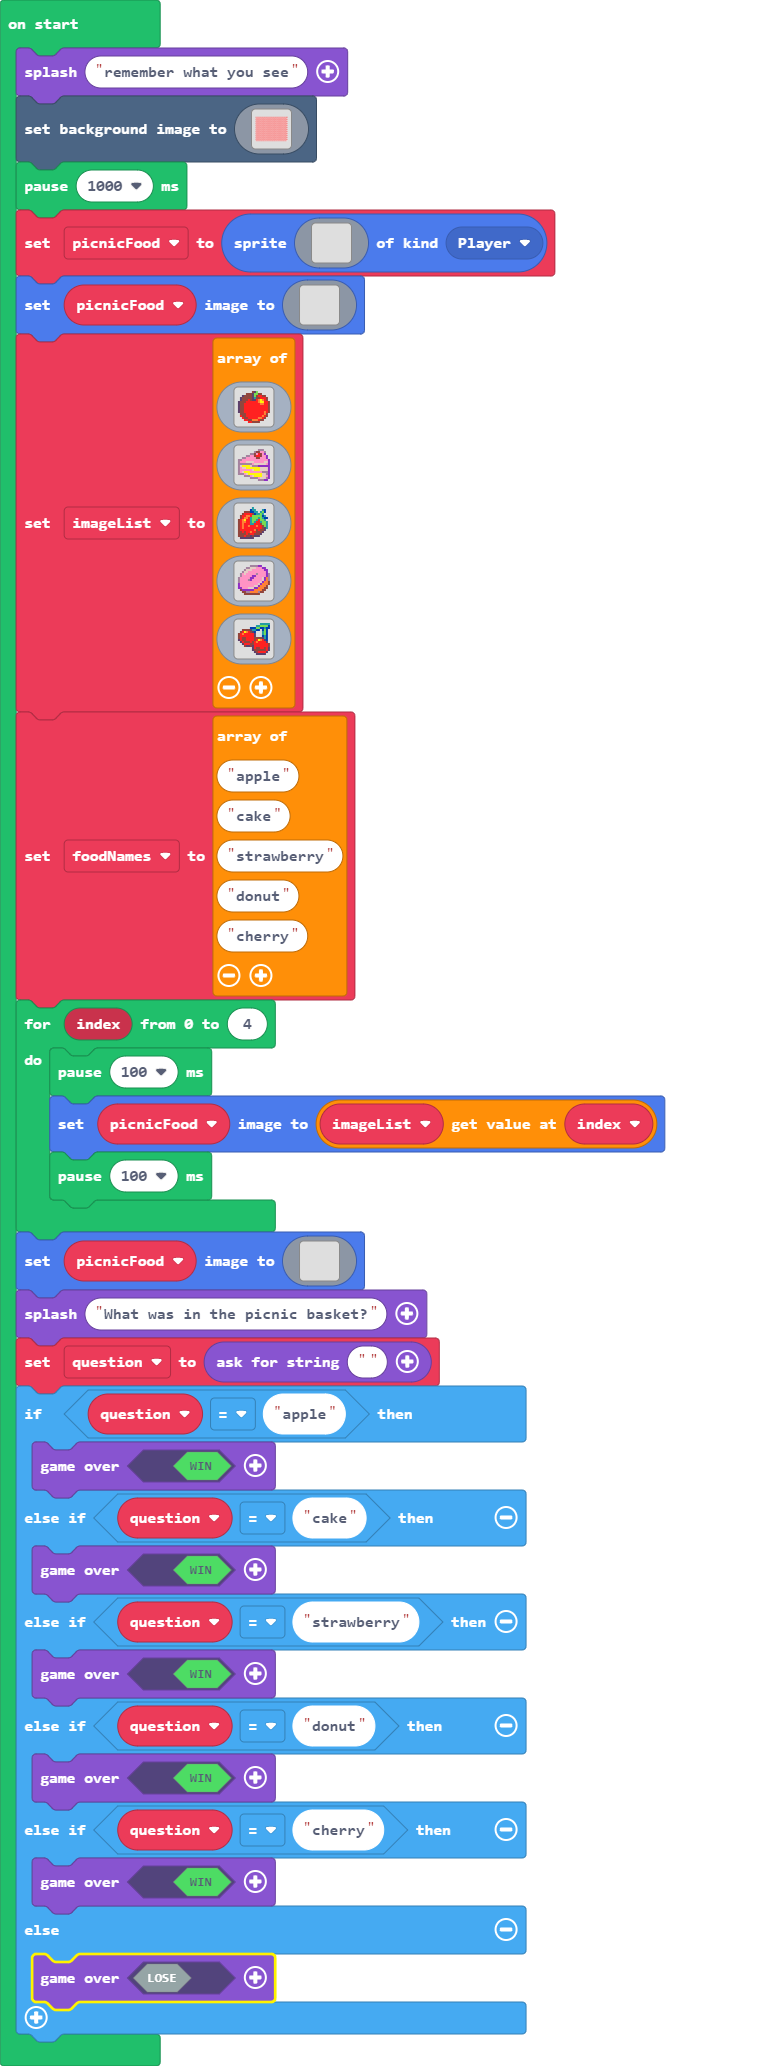
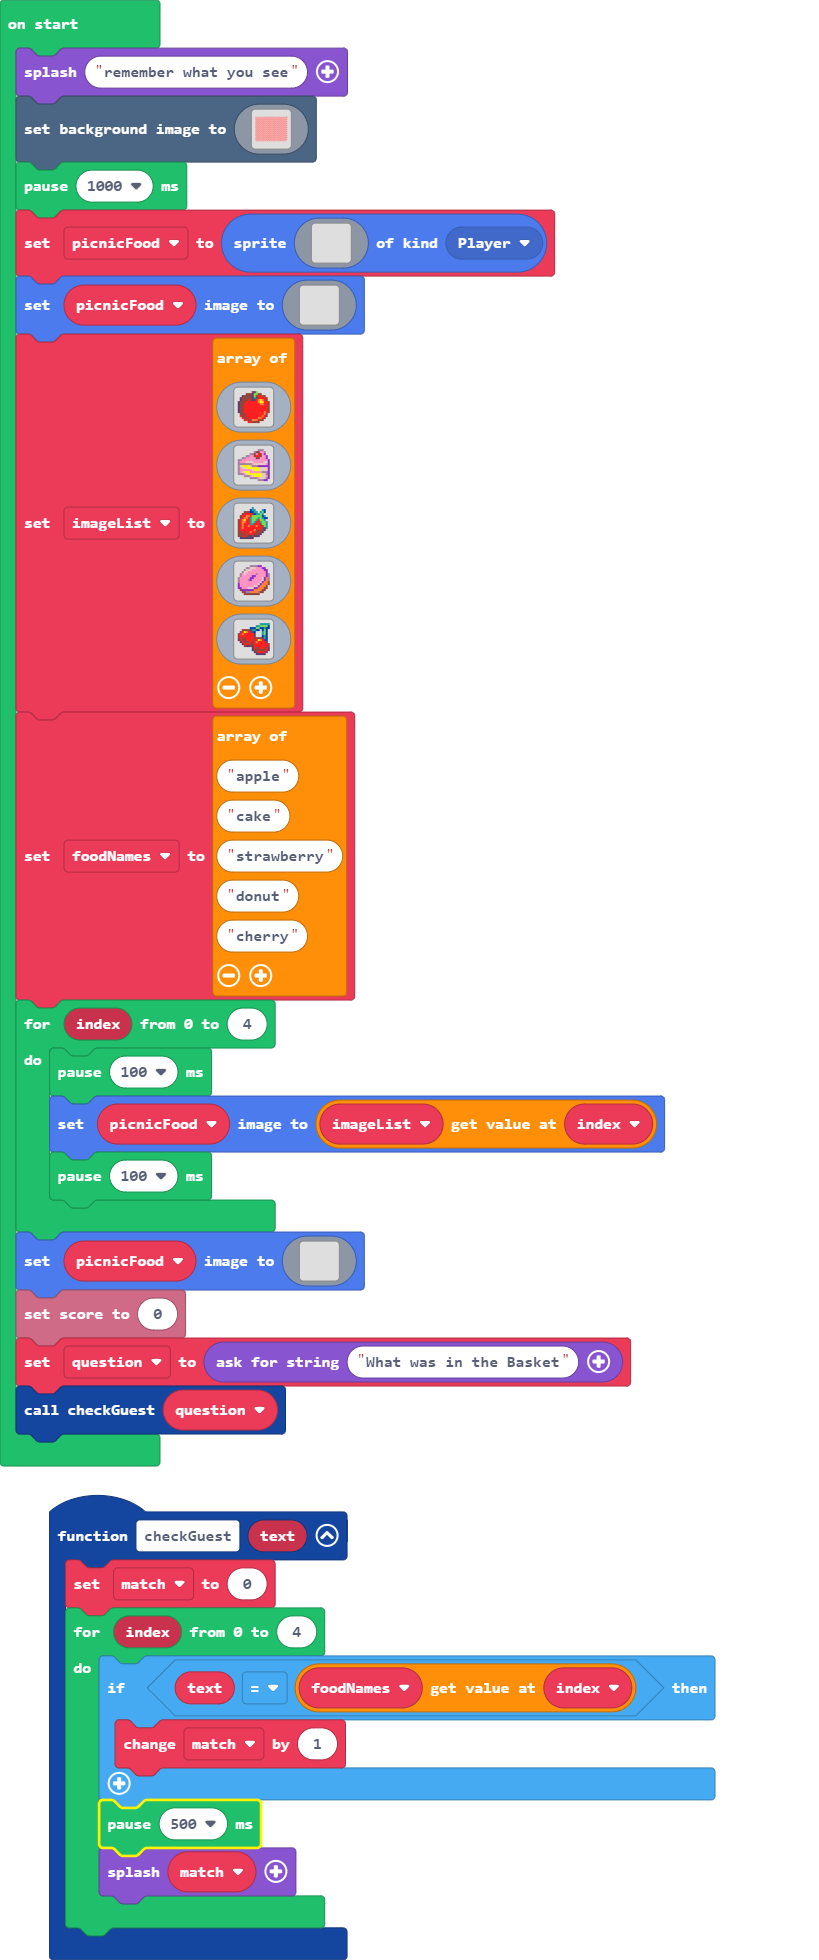
Update main.blocks, main.ts

diff --git a/main.ts b/main.ts
@@ -1,3 +1,15 @@
+function checkGuest (text: string) {
+    match = 0
+    for (let index = 0; index <= 4; index++) {
+        if (text == foodNames[index]) {
+            match += 1
+        }
+        pause(500)
+        game.splash(match)
+    }
+}
+let match = 0
+let foodNames: string[] = []
 game.splash("remember what you see")
 scene.setBackgroundImage(img`
     2222211111222222111112222221111122222211111222222111112222221111122222211111222222111112222221111122222211111222222111112222221111122222211111222222111112222222
@@ -250,7 +262,7 @@ img`
     . . . . . . . . . c c c c c . . 
     `
 ]
-let foodNames = [
+foodNames = [
 "apple",
 "cake",
 "strawberry",
@@ -280,18 +292,6 @@ picnicFood.setImage(img`
     . . . . . . . . . . . . . . . . 
     . . . . . . . . . . . . . . . . 
     `)
-game.splash("What was in the picnic basket?")
-let question = game.askForString("")
-if (question == "apple") {
-    game.over(true)
-} else if (question == "cake") {
-    game.over(true)
-} else if (question == "strawberry") {
-    game.over(true)
-} else if (question == "donut") {
-    game.over(true)
-} else if (question == "cherry") {
-    game.over(true)
-} else {
-    game.over(false)
-}
+info.setScore(0)
+let question = game.askForString("What was in the Basket")
+checkGuest(question)
